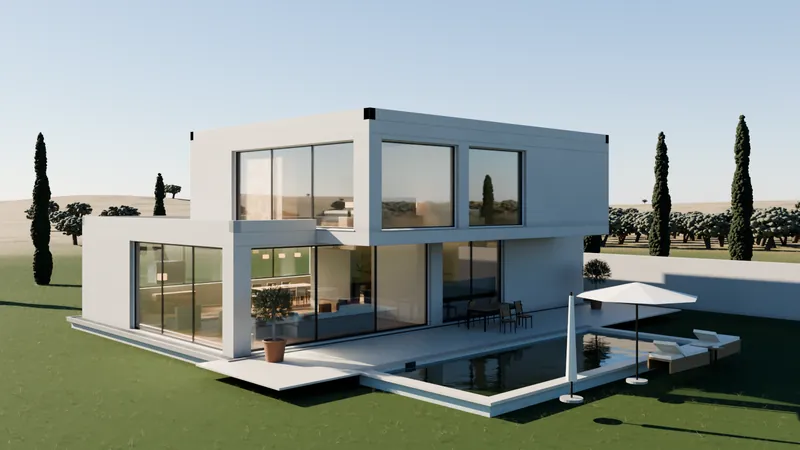
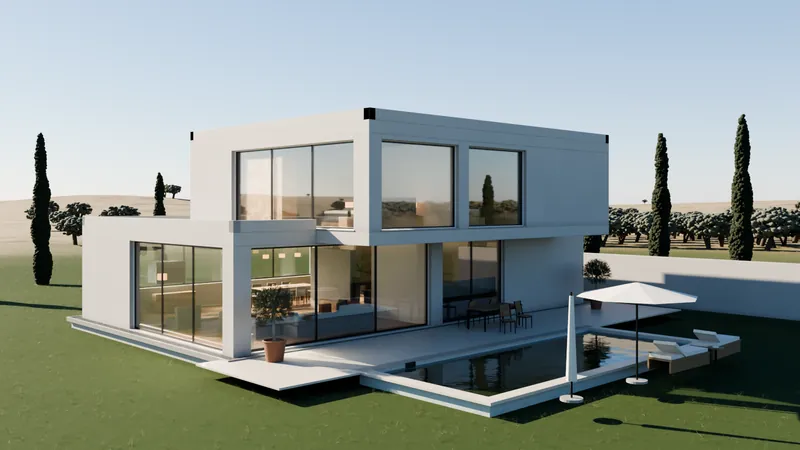
Ruhebilder: 25 gerechnete Ansichten, Essplatz statt Küche
Fünf Standpunkte × fünf Tageszeiten aus Blender Cycles, je 384 Abtastungen
(1600 × 900, 1 bis 3,5 Minuten je Bild auf der RTX 5070), als WebP in zwei
Größen — zusammen 2,0 MB, je Ansicht rund 75 KB.

Drei Dinge wurden dabei gemessen statt geschätzt:

- Belichtung: Der Himmel darf nicht mitzählen. Mit Film transparent und
  Alpha-Maske misst der Lauf nur, was die Kamera wirklich trifft; vorher
  blieb der Abendwert auf dem Nachmittagswert stehen und Rasen wie Fassade
  versanken schwarz.
- Innenräume: Die kalibrierten Werte vom 19.09. stammen aus einer Szene
  ohne echtes Glas — mit Glas, Kaustik und Schattenstrahl-Durchlass lag der
  Wohnraum rund sechs Blenden zu hell (reines Weiß). Innen wird jetzt auf
  einen Medianwert von 0,60 geregelt, abends und nachts auf den beleuchteten
  Raum statt auf den Himmel, mit Weißabgleich 4300 bis 4600 K.
- Standpunkt fünf: Die Küchenkamera zeigt zu zwei Dritteln eine leere Wand.
  Ersetzt durch den Essplatz — Tisch, Stühle, Fensterband, Sonnenflecken.

Die Fotoreal-Schicht (nur für Standbilder, die Unreal-Kalibrierung bleibt
unberührt) bekam dabei: Zypressenlaub als Zweigbüschel statt Haarpartikel
(die wurden meterlang), Olivenkronen aus 220 Laubballen statt einer
verbeulten Kugel, und den Vorplatz als echte Kiesfläche.

Claude-Session: https://claude.ai/code/session_0135rAtjoGuAaZoAJvzmob6g

diff --git a/esperienza.html b/esperienza.html
@@ -19,9 +19,9 @@
 <meta name="theme-color" content="#05070d">
 <link rel="icon" href="assets/img/favicon-32.png?v=d9973df7" sizes="32x32">
 <link rel="stylesheet" href="assets/css/fonts.css?v=cced0c71">
-<link rel="stylesheet" href="assets/css/erlebnis.css?v=1a98f2cc">
-<link rel="preload" as="image" href="assets/img/erlebnis/villa/ruhe-garten-nachmittag.webp?v=4d745a88" media="(min-width: 701px)">
-<link rel="preload" as="image" href="assets/img/erlebnis/villa/ruhe-garten-nachmittag-800.webp?v=fc5422b8" media="(max-width: 700px)">
+<link rel="stylesheet" href="assets/css/erlebnis.css?v=07d27d20">
+<link rel="preload" as="image" href="assets/img/erlebnis/villa/ruhe-garten-nachmittag.webp?v=70c6cbff" media="(min-width: 701px)">
+<link rel="preload" as="image" href="assets/img/erlebnis/villa/ruhe-garten-nachmittag-800.webp?v=f5217a4f" media="(max-width: 700px)">
 <!-- Absolute Pfade: dieselbe Zuordnung gilt in /, /de/ und /en/, ohne dass
      build.mjs sie umschreiben muss. Gleiche Fassung wie im Showroom. -->
 <script type="importmap">
@@ -60,10 +60,10 @@
      des Echtzeitmoduls -- so bekommt es von build.mjs einen Fingerabdruck wie
      jede andere Datei, obwohl es erst per import() geladen wird. -->
 <section class="villa" id="villa">
-  <figure class="buehne" id="buehne" data-src="assets/js/erlebnis/villa-echtzeit.js?v=ef748a2b">
+  <figure class="buehne" id="buehne" data-src="assets/js/erlebnis/villa-echtzeit.js?v=8d0cbce9">
     <picture>
-      <source media="(max-width: 700px)" srcset="assets/img/erlebnis/villa/ruhe-garten-nachmittag-800.webp?v=fc5422b8">
-      <img class="ruhe ist-an" id="ruhe-a" src="assets/img/erlebnis/villa/ruhe-garten-nachmittag.webp?v=4d745a88" width="1600" height="900" fetchpriority="high" decoding="async" data-i18n-attr="alt:erlebnis.bildAlt" alt="Villa con piscina nel paesaggio siciliano, calcolata con Blender Cycles">
+      <source media="(max-width: 700px)" srcset="assets/img/erlebnis/villa/ruhe-garten-nachmittag-800.webp?v=f5217a4f">
+      <img class="ruhe ist-an" id="ruhe-a" src="assets/img/erlebnis/villa/ruhe-garten-nachmittag.webp?v=70c6cbff" width="1600" height="900" fetchpriority="high" decoding="async" data-i18n-attr="alt:erlebnis.bildAlt" alt="Villa con piscina nel paesaggio siciliano, calcolata con Blender Cycles">
     </picture>
     <img class="ruhe" id="ruhe-b" alt="" aria-hidden="true" decoding="async" width="1600" height="900">
     <div class="echtzeit" id="echtzeit" aria-hidden="true"></div>
@@ -89,7 +89,7 @@
         <button type="button" data-stand="ankunft" aria-pressed="false" data-i18n="erlebnis.s2">Arrivo</button>
         <button type="button" data-stand="terrasse" aria-pressed="false" data-i18n="erlebnis.s3">Terrazza</button>
         <button type="button" data-stand="wohnen" aria-pressed="false" data-i18n="erlebnis.s4">Soggiorno</button>
-        <button type="button" data-stand="kueche" aria-pressed="false" data-i18n="erlebnis.s5">Cucina</button>
+        <button type="button" data-stand="essen" aria-pressed="false" data-i18n="erlebnis.s5">Zona pranzo</button>
       </div>
     </div>
   </div>
@@ -218,6 +218,6 @@
   </nav>
 </footer>
 
-<script type="module" src="assets/js/erlebnis/erlebnis.js?v=49c78ca2"></script>
+<script type="module" src="assets/js/erlebnis/erlebnis.js?v=6ea94149"></script>
 </body>
 </html>

diff --git a/assets/js/erlebnis/erlebnis.js b/assets/js/erlebnis/erlebnis.js
@@ -30,7 +30,7 @@ const SPRACHE = ['it', 'de', 'en'].includes(L) ? L : 'it';
 const T = {
   de: {
     zeiten: { morgen: 'Morgen', mittag: 'Mittag', nachmittag: 'Nachmittag', abend: 'Abend', nacht: 'Blaue Stunde' },
-    staende: { garten: 'Garten', ankunft: 'Ankunft', terrasse: 'Terrasse', wohnen: 'Wohnraum', kueche: 'Küche' },
+    staende: { garten: 'Garten', ankunft: 'Ankunft', terrasse: 'Terrasse', wohnen: 'Wohnraum', essen: 'Essplatz' },
     foto: (p) => `Gerechnet · Blender Cycles · ${p} Abtastungen je Bildpunkt`,
     echtzeit: (r, f, s) => `Echtzeit · ${r} · ${f} Bilder/s · Stufe ${s}`,
     kehrt: 'Loslassen — die Kamera kehrt zum Foto zurück',
@@ -116,7 +116,7 @@ const T = {
   },
   it: {
     zeiten: { morgen: 'Mattina', mittag: 'Mezzogiorno', nachmittag: 'Pomeriggio', abend: 'Sera', nacht: 'Ora blu' },
-    staende: { garten: 'Giardino', ankunft: 'Arrivo', terrasse: 'Terrazza', wohnen: 'Soggiorno', kueche: 'Cucina' },
+    staende: { garten: 'Giardino', ankunft: 'Arrivo', terrasse: 'Terrazza', wohnen: 'Soggiorno', essen: 'Zona pranzo' },
     foto: (p) => `Calcolata · Blender Cycles · ${p} campioni per pixel`,
     echtzeit: (r, f, s) => `Tempo reale · ${r} · ${f} fotogrammi/s · livello ${s}`,
     kehrt: 'Lascia andare — la camera torna alla foto',
@@ -202,7 +202,7 @@ const T = {
   },
   en: {
     zeiten: { morgen: 'Morning', mittag: 'Noon', nachmittag: 'Afternoon', abend: 'Evening', nacht: 'Blue hour' },
-    staende: { garten: 'Garden', ankunft: 'Arrival', terrasse: 'Terrace', wohnen: 'Living room', kueche: 'Kitchen' },
+    staende: { garten: 'Garden', ankunft: 'Arrival', terrasse: 'Terrace', wohnen: 'Living room', essen: 'Dining area' },
     foto: (p) => `Rendered · Blender Cycles · ${p} samples per pixel`,
     echtzeit: (r, f, s) => `Real time · ${r} · ${f} fps · tier ${s}`,
     kehrt: 'Let go — the camera returns to the photo',

diff --git a/assets/css/erlebnis.css b/assets/css/erlebnis.css
@@ -77,7 +77,7 @@ button{font:inherit; color:inherit}
 .kopf .lead{max-width:40rem}
 @media (min-width:1100px){
   .held{
-    display:grid; grid-template-columns:minmax(17rem,.34fr) minmax(0,1fr);
+    display:grid; grid-template-columns:minmax(19rem,.34fr) minmax(0,1fr);
     gap:clamp(2rem,3.2vw,3.5rem); align-items:start;
     padding-top:clamp(5.5rem,12vh,7rem);
   }
@@ -89,8 +89,7 @@ button{font:inherit; color:inherit}
 }
 h1,h2,h3{font-family:var(--f-display); font-weight:700; margin:0; text-wrap:balance}
 h1{font-size:clamp(2.3rem,6vw,4rem); line-height:1.02; letter-spacing:-.028em; margin-bottom:.9rem}
-@media (min-width:1100px){ h1{font-size:clamp(2.3rem,3.05vw,3.7rem)} .kopf .lead{font-size:1.04rem} }
-h1 .glanz{white-space:nowrap}
+@media (min-width:1100px){ h1{font-size:clamp(2.1rem,2.9vw,3.6rem)} .kopf .lead{font-size:1.04rem} }
 h1 .glanz{
   background:linear-gradient(96deg,var(--c-blue),var(--c-cyan));
   -webkit-background-clip:text; background-clip:text; color:transparent;

diff --git a/assets/js/erlebnis/villa-echtzeit.js b/assets/js/erlebnis/villa-echtzeit.js
@@ -44,7 +44,11 @@ export const STAENDE = {
   ankunft:  { pos: [-7.5, -13.0, 3.2], ziel: [7.0, 3.0, 2.6],  lens: 35 },
   terrasse: { pos: [17.5, 20.0, 2.6],  ziel: [7.0, 8.0, 2.6],  lens: 24 },
   wohnen:   { pos: [10.6, 4.9, 1.62],  ziel: [15.6, 9.6, 1.35], lens: 20, innen: true },
-  kueche:   { pos: [9.1, 10.0, 1.62],  ziel: [5.8, 5.4, 1.2],  lens: 20, innen: true },
+  /* Die Kueche stand hier bis zum 22.09.2026 an fuenfter Stelle. Ihr Blick
+     (9,1 / 10,0 nach 5,8 / 5,4) zeigt zu zwei Dritteln eine leere Wand --
+     im gerechneten Bild sofort zu sehen. Der Essplatz zeigt Tisch, Stuehle,
+     das Fensterband und die Sonnenflecken auf dem Boden. */
+  essen:    { pos: [16.4, 3.1, 1.6],   ziel: [7.6, 1.6, 1.3],  lens: 22, innen: true },
 };
 
 /* Sonnenstand wie lauf_ruhebilder.ZEITEN (Höhe, Azimut). Die übrigen Werte

diff --git a/assets/js/i18n-de.js b/assets/js/i18n-de.js
@@ -54,7 +54,7 @@ window.VECOM_I18N.de = {
       zeitLabel: "Tageszeit",
       standLabel: "Standpunkt",
       z1: "Morgen", z2: "Mittag", z3: "Nachmittag", z4: "Abend", z5: "Blaue Stunde",
-      s1: "Garten", s2: "Ankunft", s3: "Terrasse", s4: "Wohnraum", s5: "Küche",
+      s1: "Garten", s2: "Ankunft", s3: "Terrasse", s4: "Wohnraum", s5: "Essplatz",
       bewegen: "Selbst drehen",
       hinweis_b: "Was du siehst:",
       hinweis_p: "Das Foto ist in Blender Cycles gerechnet — echte Sonne, physikalischer Himmel, 384 Abtastungen je Bildpunkt. Das Modell zum Drehen ist dasselbe Haus in 32.280 Dreiecken und 127 KB, live in deinem Browser. Der Garten, die Zypressen und die Olivenhaine gibt es nur im Foto: Sie wären für ein Telefon zu schwer.",

diff --git a/assets/js/i18n-it.js b/assets/js/i18n-it.js
@@ -56,7 +56,7 @@ window.VECOM_I18N.it = {
       zeitLabel: "Ora del giorno",
       standLabel: "Punto di vista",
       z1: "Mattina", z2: "Mezzogiorno", z3: "Pomeriggio", z4: "Sera", z5: "Ora blu",
-      s1: "Giardino", s2: "Arrivo", s3: "Terrazza", s4: "Soggiorno", s5: "Cucina",
+      s1: "Giardino", s2: "Arrivo", s3: "Terrazza", s4: "Soggiorno", s5: "Zona pranzo",
       bewegen: "Giralo tu",
       hinweis_b: "Cosa vedi:",
       hinweis_p: "La foto è calcolata con Blender Cycles — sole vero, cielo fisico, 384 campioni per pixel. Il modello da girare è la stessa casa in 32.280 triangoli e 127 KB, dal vivo nel tuo browser. Il giardino, i cipressi e gli uliveti esistono solo nella foto: per un telefono sarebbero troppo pesanti.",

diff --git a/assets/js/i18n-en.js b/assets/js/i18n-en.js
@@ -54,7 +54,7 @@ window.VECOM_I18N.en = {
       zeitLabel: "Time of day",
       standLabel: "Viewpoint",
       z1: "Morning", z2: "Noon", z3: "Afternoon", z4: "Evening", z5: "Blue hour",
-      s1: "Garden", s2: "Arrival", s3: "Terrace", s4: "Living room", s5: "Kitchen",
+      s1: "Garden", s2: "Arrival", s3: "Terrace", s4: "Living room", s5: "Dining area",
       bewegen: "Turn it yourself",
       hinweis_b: "What you see:",
       hinweis_p: "The photo is rendered in Blender Cycles — real sun, physical sky, 384 samples per pixel. The model you turn is the same house in 32,280 triangles and 127 KB, live in your browser. The garden, the cypresses and the olive groves exist only in the photo: they would be too heavy for a phone.",

diff --git a/index.html b/index.html
@@ -1819,7 +1819,7 @@
   </div>
 </footer>
 
-<script src="assets/js/i18n-it.js?v=756dc3ed" defer></script>
+<script src="assets/js/i18n-it.js?v=922910be" defer></script>
 <script src="assets/js/app.js?v=3537bcfa" defer></script>
 <script src="assets/js/sprachhinweis.js?v=56d4e7b8" defer></script>
 <script src="assets/vendor/gsap.min.js?v=9396f256" defer></script>

diff --git a/assistenza.html b/assistenza.html
@@ -218,7 +218,7 @@
   </div>
 </footer>
 
-<script src="assets/js/i18n-it.js?v=756dc3ed" defer></script>
+<script src="assets/js/i18n-it.js?v=922910be" defer></script>
 <script src="assets/js/app.js?v=3537bcfa" defer></script>
 <script src="assets/js/sprachhinweis.js?v=56d4e7b8" defer></script>
 <script src="assets/js/pakete-live.js?v=cd1d0b30" defer></script>

diff --git a/prezzi.html b/prezzi.html
@@ -346,7 +346,7 @@
   </div>
 </footer>
 
-<script src="assets/js/i18n-it.js?v=756dc3ed" defer></script>
+<script src="assets/js/i18n-it.js?v=922910be" defer></script>
 <script src="assets/js/app.js?v=3537bcfa" defer></script>
 <script src="assets/js/sprachhinweis.js?v=56d4e7b8" defer></script>
 <script src="assets/js/preise-live.js?v=5e394185" defer></script>
